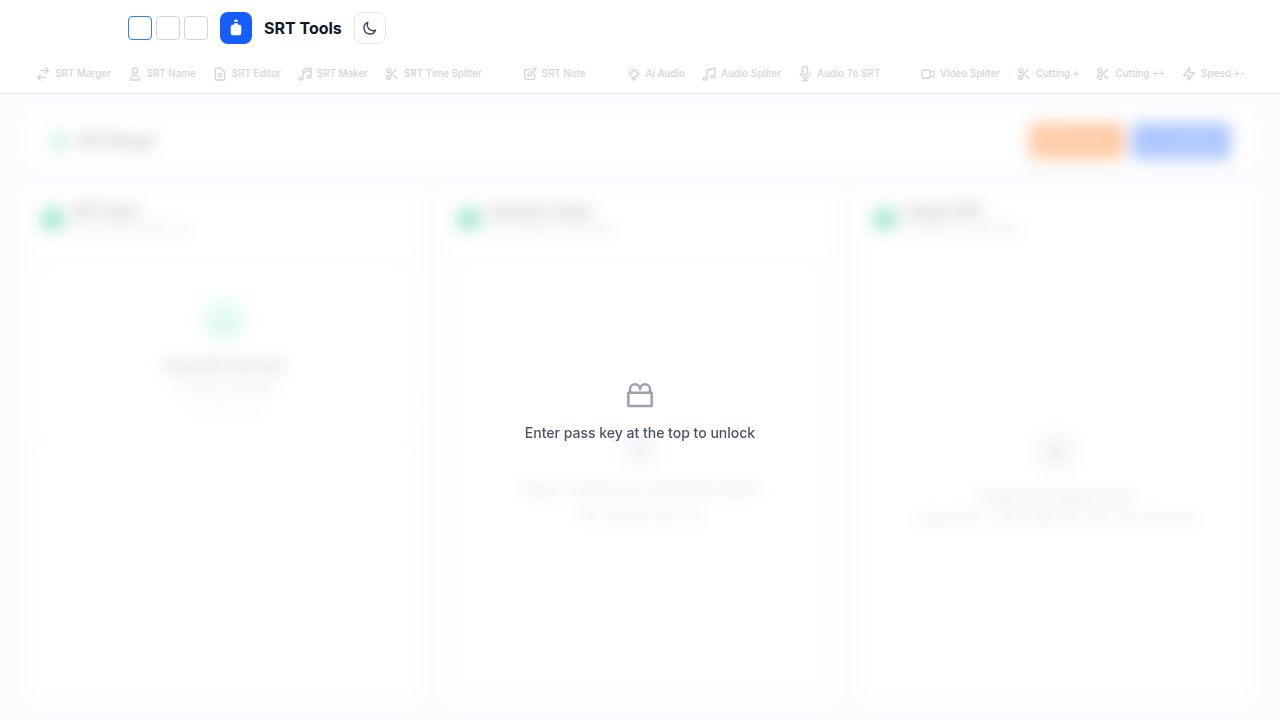
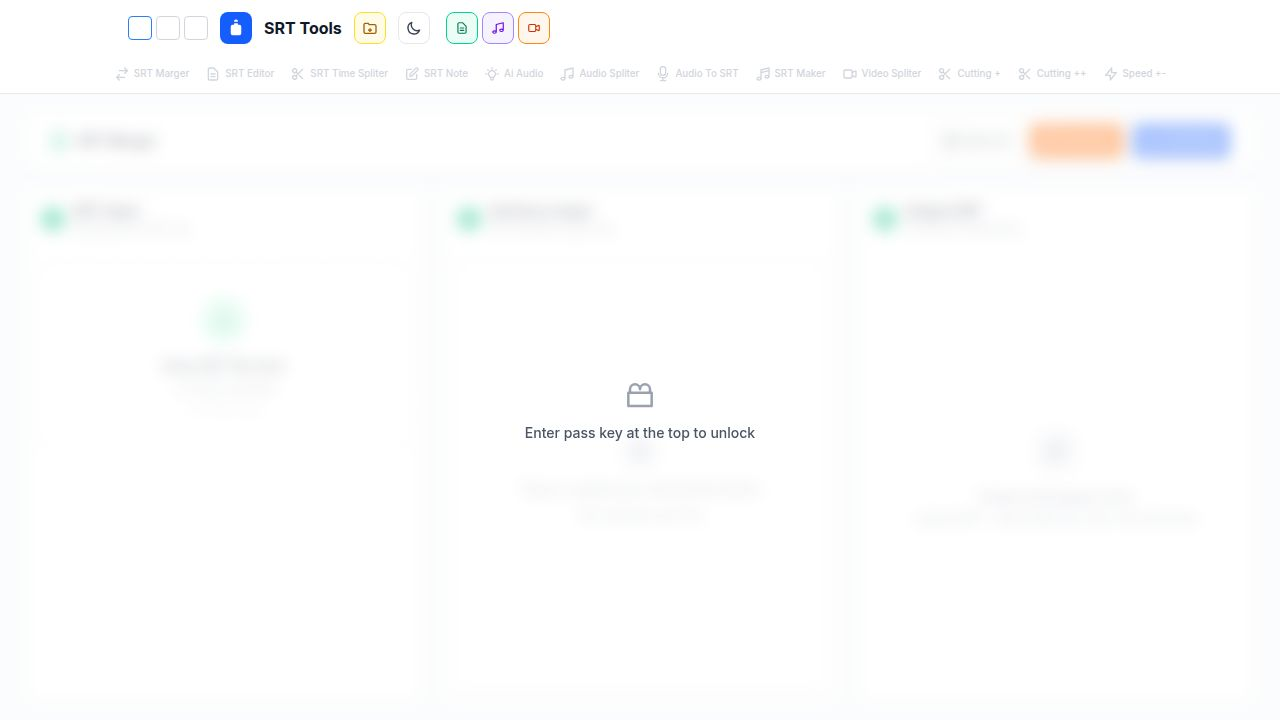
Add a combined load button and animated 3D effects to the video cutter
Integrates a new 'LOAD' button to simultaneously load audio and video pools, moves engine status to the left, and applies full-color 3D animated haka hover effects to all top card buttons within SpeedPlusMinusTab.tsx.

Replit-Commit-Author: Agent
Replit-Commit-Session-Id: e778e9b1-3fbc-4eaf-a748-1a79b73a3c2e
Replit-Commit-Checkpoint-Type: full_checkpoint
Replit-Commit-Event-Id: cd191348-7346-41ae-a0e6-9d21d8ab93b7
Replit-Commit-Screenshot-Url: https://storage.googleapis.com/screenshot-production-us-central1/bd0e8564-159c-4dea-a3d0-7adc3e5b1933/e778e9b1-3fbc-4eaf-a748-1a79b73a3c2e/IZvaYB0
Replit-Helium-Checkpoint-Created: true

diff --git a/artifacts/srt-tools/src/tabs/SpeedPlusMinusTab.tsx b/artifacts/srt-tools/src/tabs/SpeedPlusMinusTab.tsx
@@ -1061,13 +1061,92 @@ function VideoCutterApp({
   return (
    <PoolContext.Provider value={poolCtx}>
     <div className="min-h-screen w-full bg-slate-50 text-slate-900">
+      <style>{`
+        @keyframes haka-pulse {
+          0%,100% { transform: translateY(0) scale(1); }
+          50% { transform: translateY(-3px) scale(1.04); }
+        }
+        .btn-3d {
+          position: relative;
+          display: inline-flex;
+          align-items: center;
+          justify-content: center;
+          gap: 6px;
+          padding: 7px 20px;
+          min-width: 130px;
+          border: none;
+          border-radius: 12px;
+          font-size: 13px;
+          font-weight: 700;
+          letter-spacing: 0.06em;
+          cursor: pointer;
+          color: #fff;
+          transition: transform 0.13s cubic-bezier(0.34,1.56,0.64,1),
+                      box-shadow 0.13s cubic-bezier(0.34,1.56,0.64,1),
+                      filter 0.13s ease;
+          user-select: none;
+        }
+        .btn-3d:disabled {
+          cursor: not-allowed;
+          opacity: 0.38;
+          filter: grayscale(0.4);
+          transform: none !important;
+          box-shadow: none !important;
+        }
+        .btn-3d:not(:disabled):hover {
+          transform: translateY(-5px) scale(1.06);
+          animation: haka-pulse 0.45s ease-in-out 1;
+          filter: brightness(1.12);
+        }
+        .btn-3d:not(:disabled):active {
+          transform: translateY(3px) scale(0.97) !important;
+          filter: brightness(0.92) !important;
+        }
+
+        /* LOAD button — teal */
+        .btn-load {
+          background: linear-gradient(135deg, #0d9488 0%, #0891b2 100%);
+          box-shadow: 0 6px 0 #0f766e, 0 8px 18px rgba(13,148,136,0.45);
+        }
+        .btn-load:not(:disabled):hover {
+          box-shadow: 0 10px 0 #0f766e, 0 14px 28px rgba(13,148,136,0.55);
+        }
+        .btn-load:not(:disabled):active {
+          box-shadow: 0 2px 0 #0f766e, 0 2px 8px rgba(13,148,136,0.3) !important;
+        }
+
+        /* DOWNLOAD ZIP button — indigo */
+        .btn-download {
+          background: linear-gradient(135deg, #6366f1 0%, #4f46e5 100%);
+          box-shadow: 0 6px 0 #3730a3, 0 8px 18px rgba(99,102,241,0.45);
+        }
+        .btn-download:not(:disabled):hover {
+          box-shadow: 0 10px 0 #3730a3, 0 14px 28px rgba(99,102,241,0.55);
+        }
+        .btn-download:not(:disabled):active {
+          box-shadow: 0 2px 0 #3730a3, 0 2px 8px rgba(99,102,241,0.3) !important;
+        }
+
+        /* SPEED +- button — violet */
+        .btn-speed {
+          background: linear-gradient(135deg, #8b5cf6 0%, #7c3aed 100%);
+          box-shadow: 0 6px 0 #5b21b6, 0 8px 18px rgba(139,92,246,0.45);
+        }
+        .btn-speed:not(:disabled):hover {
+          box-shadow: 0 10px 0 #5b21b6, 0 14px 28px rgba(139,92,246,0.55);
+        }
+        .btn-speed:not(:disabled):active {
+          box-shadow: 0 2px 0 #5b21b6, 0 2px 8px rgba(139,92,246,0.3) !important;
+        }
+      `}</style>
       <div className="mx-auto max-w-6xl px-6 py-8">
         {/* Header bar */}
         <div className="mb-8 flex items-center justify-between gap-4 rounded-2xl border-2 border-slate-300 bg-white px-6 py-3 shadow-sm">
-          <h1 className="text-2xl font-semibold tracking-tight text-slate-800">
-            Video Clip Cutter
-          </h1>
+          {/* LEFT: title + engine status + LOAD */}
           <div className="flex items-center gap-3">
+            <h1 className="text-2xl font-semibold tracking-tight text-slate-800">
+              Video Clip Cutter
+            </h1>
             {ffmpegLoading && (
               <span className="inline-flex items-center gap-1.5 text-xs text-slate-500">
                 <Loader2 className="h-3.5 w-3.5 animate-spin" />
@@ -1075,7 +1154,7 @@ function VideoCutterApp({
               </span>
             )}
             {!ffmpegLoading && ffmpegReady && (
-              <span className="inline-flex items-center gap-1.5 text-xs text-emerald-600">
+              <span className="inline-flex items-center gap-1.5 rounded-lg border border-emerald-200 bg-emerald-50 px-2.5 py-0.5 text-xs font-semibold text-emerald-700">
                 <CheckCircle2 className="h-3.5 w-3.5" />
                 Ready
               </span>
@@ -1083,23 +1162,38 @@ function VideoCutterApp({
             {ffmpegError && (
               <span className="text-xs text-rose-600">{ffmpegError}</span>
             )}
+            <button
+              className="btn-3d btn-load"
+              onClick={() => {
+                loadPoolToCards("audio");
+                loadPoolToCards("video");
+              }}
+              title="Load both Audio Pool and Video Pool into cards"
+            >
+              <UploadCloud className="h-4 w-4" />
+              LOAD
+            </button>
+          </div>
+
+          {/* RIGHT: Download ZIP + Speed +- */}
+          <div className="flex items-center gap-3">
             {completeCount > 0 && (
               <button
                 onClick={handleDownloadZip}
                 disabled={zipping}
                 data-testid="button-download-zip"
-                className="inline-flex min-w-[140px] items-center justify-center rounded-xl border-2 border-indigo-400 bg-white px-5 py-1.5 text-sm font-semibold tracking-wider text-indigo-700 transition hover:border-indigo-600 hover:bg-indigo-50 disabled:cursor-not-allowed disabled:opacity-40"
+                className="btn-3d btn-download"
               >
                 {zipping ? (
-                  <span className="inline-flex items-center">
-                    <Loader2 className="mr-2 h-3.5 w-3.5 animate-spin" />
+                  <>
+                    <Loader2 className="h-4 w-4 animate-spin" />
                     ZIPPING…
-                  </span>
+                  </>
                 ) : (
-                  <span className="inline-flex items-center">
-                    <Download className="mr-2 h-3.5 w-3.5" />
-                    DOWNLOAD ZIP ({completeCount})
-                  </span>
+                  <>
+                    <Download className="h-4 w-4" />
+                    ZIP ({completeCount})
+                  </>
                 )}
               </button>
             )}
@@ -1107,18 +1201,18 @@ function VideoCutterApp({
               onClick={handleSpeed}
               disabled={!canRunSpeed}
               data-testid="button-speed"
-              className="inline-flex min-w-[140px] items-center justify-center rounded-xl border-2 border-violet-400 bg-white px-5 py-1.5 text-sm font-semibold tracking-wider text-violet-700 transition hover:border-violet-600 hover:bg-violet-50 disabled:cursor-not-allowed disabled:opacity-40"
+              className="btn-3d btn-speed"
             >
               {anyWorking ? (
-                <span className="inline-flex items-center">
-                  <Loader2 className="mr-2 h-3.5 w-3.5 animate-spin" />
+                <>
+                  <Loader2 className="h-4 w-4 animate-spin" />
                   WORKING…
-                </span>
+                </>
               ) : (
-                <span className="inline-flex items-center">
-                  <Gauge className="mr-2 h-3.5 w-3.5" />
+                <>
+                  <Gauge className="h-4 w-4" />
                   SPEED +-
-                </span>
+                </>
               )}
             </button>
           </div>